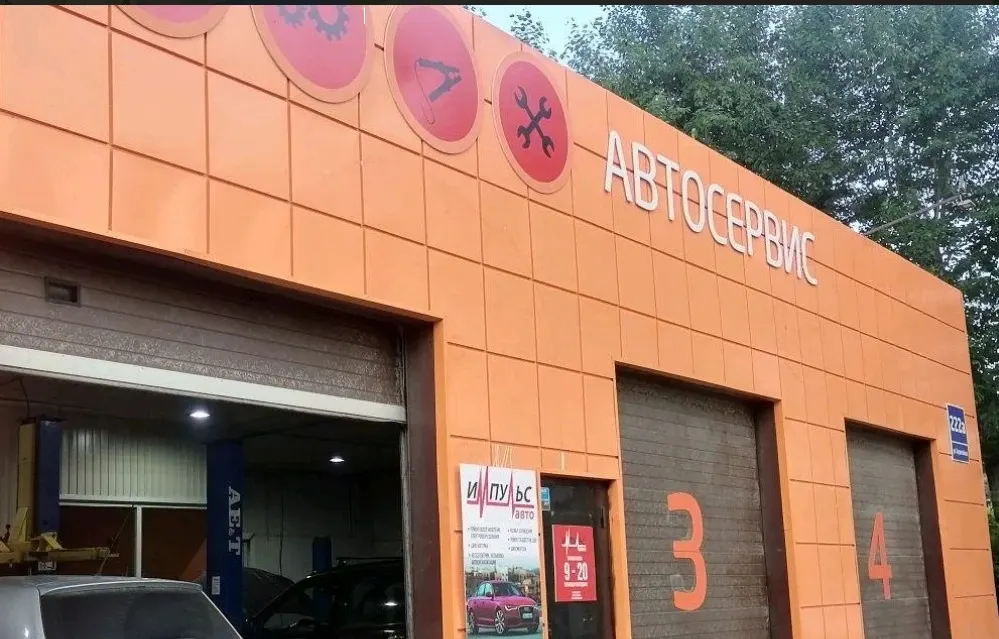
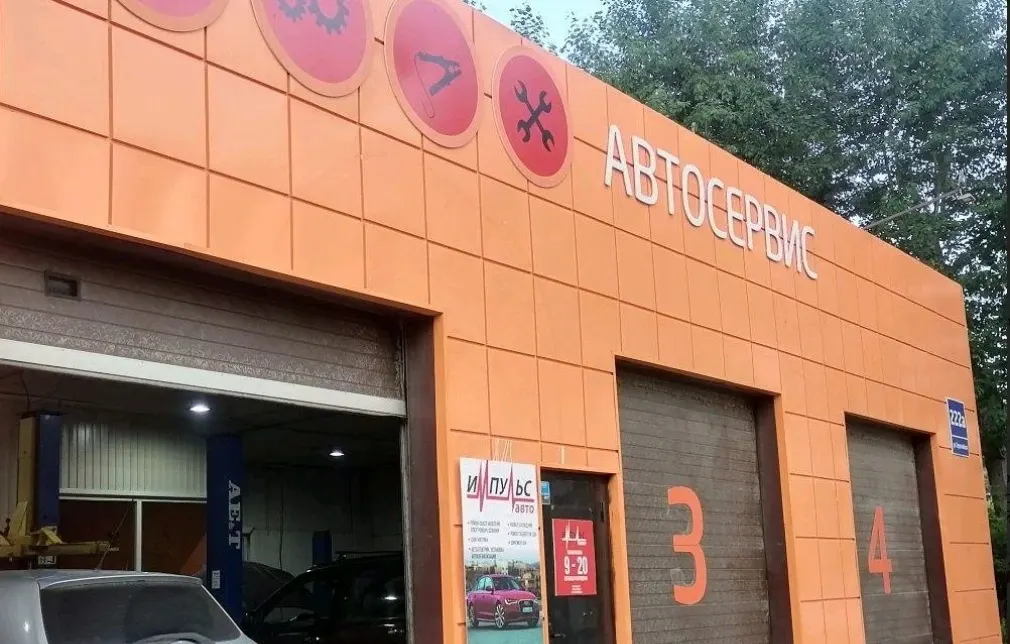
Первый экран: фото снаружи целиком

diff --git a/style-prod.css b/style-prod.css
@@ -210,3 +210,7 @@ main { max-width: var(--wrap); margin: 0 auto; padding: 0 var(--gut); }
 .s-prod .s-send { display: grid; grid-template-columns: repeat(3, 1fr); gap: 8px; }
 .s-prod .s-send .s-btn--wide { grid-column: 1 / -1; flex: none; }
 .s-prod .s-send .s-btn--ghost { text-align: center; padding-left: 10px; padding-right: 10px; white-space: nowrap; }
+/* фото первого экрана показываем целиком, без обрезки до 16:9, и на телефоне тоже */
+.s-prod .s-hero__photo { display: block; }
+.s-prod .s-hero__photo img { aspect-ratio: auto; height: auto; object-fit: contain; }
+.s-prod .s-hero__bg img { object-position: 50% 20%; }
